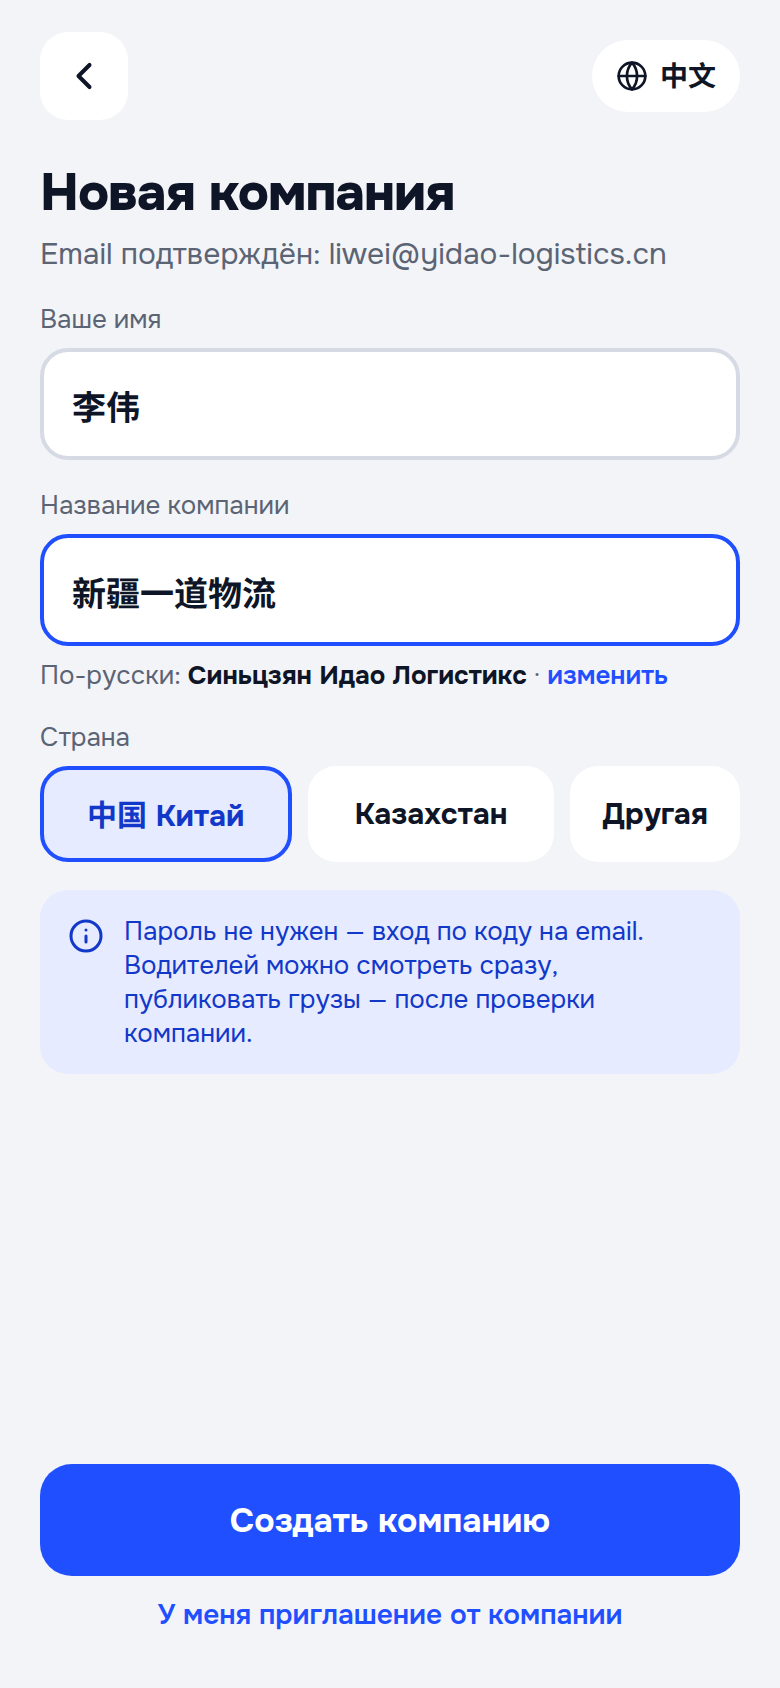
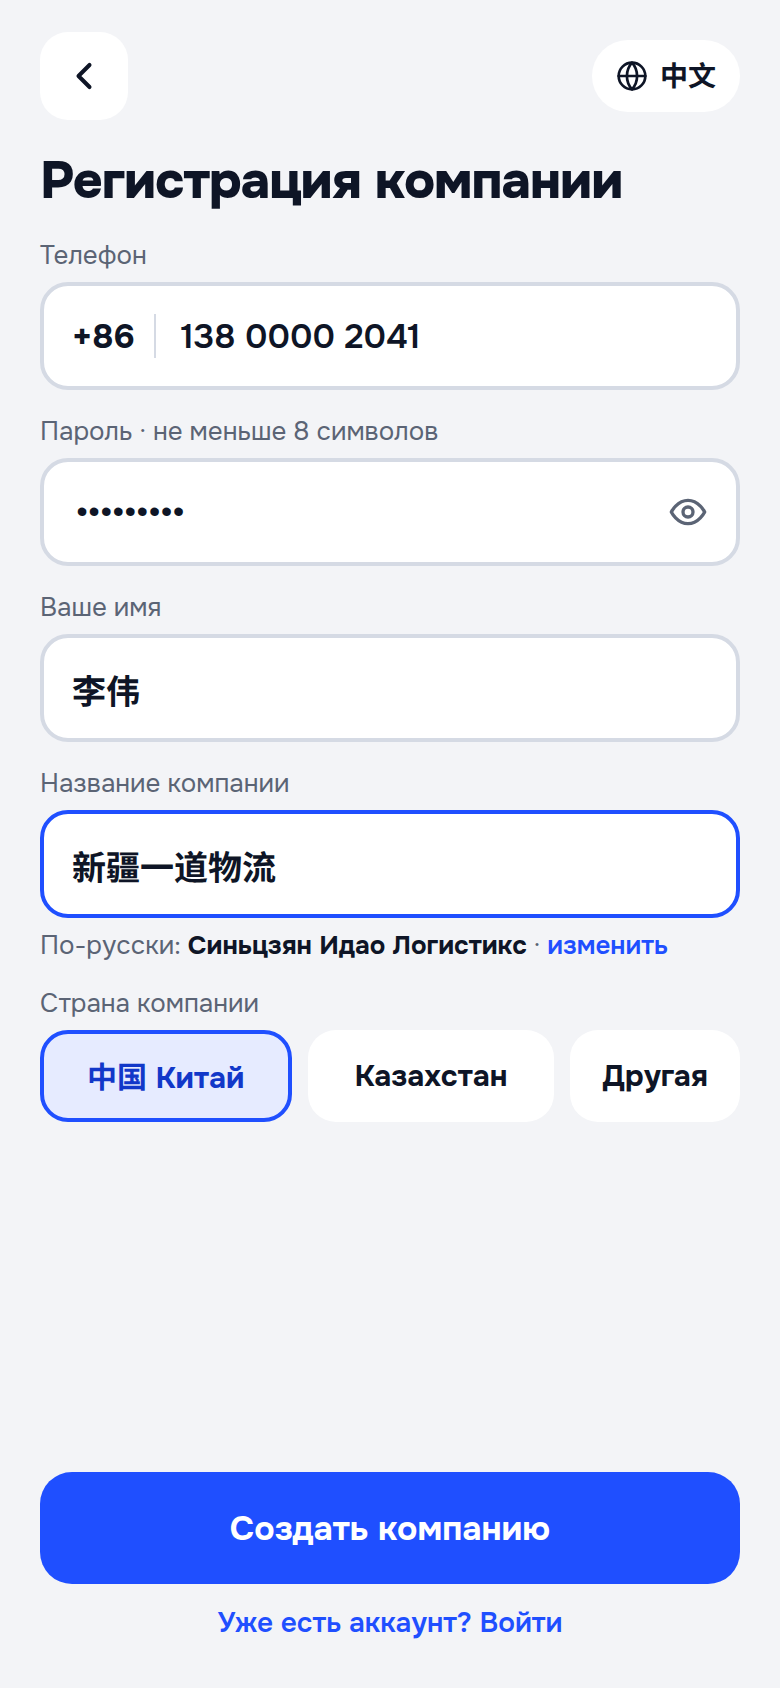
Logist auth: phone + password per owner decision; task 025, screens 12-13
Claude-Session: https://claude.ai/code/session_01Ff8oopsZvobH79mMVJKnFv

diff --git a/docs/tasks/025-logist-phone-password.md b/docs/tasks/025-logist-phone-password.md
@@ -1,0 +1,44 @@
+# 025 — Вход и регистрация логиста по телефону и паролю
+
+Статус: не начато · **решение владельца продукта 2026-10-04** (заменяет вход по коду на email из 006/022)
+
+Эталоны: `design/screens/13-auth-logist-login.png` (вход), `12-register-logist.png` (регистрация компании). Решение — `docs/decisions.md` (2026-10-04, «Логист: телефон + пароль»).
+
+## Что сделать
+
+### Вход (экран 13)
+1. Телефон с выбором кода страны (по умолчанию **+86**, рядом +7 и список) + пароль → «Войти». Кнопки «Зарегистрировать компанию», «У меня приглашение от компании», «Забыли пароль?».
+2. `POST /auth/company/login {phone, password}` → пара токенов (сессии из 006, срок 30 дней). Пароль — bcrypt.
+3. Защита: 5 неверных паролей на номер → блокировка входа на 15 минут; лимит 20 попыток в час с одного IP; одинаковый текст ошибки «Неверный телефон или пароль» (не раскрывать, существует ли номер).
+
+### Регистрация компании (экран 12) — один экран
+4. Поля: телефон, пароль (≥ 8 символов, показать/скрыть), имя, название компании (+ русское, подставляется — можно поправить), страна (Китай / Казахстан / Другая). Город не спрашиваем.
+5. `POST /auth/company/register` → создаёт `User{role: COMPANY, phone, passwordHash, name}` + `Company` + `CompanyMember{OWNER}` в одной транзакции (переиспользовать `registerOwnedCompany` из 022) → токены → кабинет с баннером «Публикация грузов откроется после проверки».
+6. Номер уже зарегистрирован → «Этот номер уже зарегистрирован. Войти?» (с переходом на вход, номер подставлен).
+7. **Подтверждение номера:**
+   - **+7 (Казахстан)** — SMS-код при регистрации (существующий `SmsService`, лимиты как у водителя);
+   - **другие страны (+86 и т. д.)** — SMS не отправляем (рассылка на китайские номера требует отдельной регистрации шаблонов и дорогая); номер подтверждает админ при проверке компании (звонок на официальный номер из реестра и на номер логиста — добавить пункт «номер логиста подтверждён» в чек-лист проверки, задача 012). Пока компания не проверена, публиковать грузы и так нельзя.
+   - Поле `User.phoneVerifiedAt`.
+
+### Восстановление пароля
+8. «Забыли пароль?»:
+   - номер **+7** — SMS-код → новый пароль;
+   - другой номер — если в профиле указан email (необязательное поле «Email для восстановления» в «Мой профиль») — код на email (`EmailService` из 006) → новый пароль; если email нет — экран «Напишите в поддержку» (WhatsApp / WeChat / email поддержки — контакты из `app_settings`), админ сбрасывает пароль вручную в админке (кнопка «Сбросить пароль» → временный пароль, обязательная смена при входе).
+   - После смены пароля — все остальные сессии завершаются.
+
+### Приглашение сотрудника (Путь Б из 022)
+9. Владелец в «Сотрудники» → «Пригласить» → вводит **телефон** и роль → получает **ссылку-приглашение**, которую сам отправляет коллеге в WeChat/WhatsApp (кнопки «Скопировать», «Поделиться»). Email-рассылка не нужна.
+10. По ссылке: телефон подставлен → пароль, имя, телефон для водителей (по умолчанию тот же), WeChat → готово, сразу в кабинете компании. Ссылка действует 7 дней, одноразовая.
+
+### Что убрать / оставить
+11. Экран входа логиста по коду на email (`company_login_screen` / `company_otp_screen`) — убрать из навигации. `EmailService` оставить — используется для восстановления пароля (п. 8).
+12. Демо-аккаунты компаний в `seed-demo.ts` и `DEMO_CREDENTIALS.md` — перевести на телефон + пароль.
+13. Миграция: у существующих COMPANY-пользователей без телефона — при следующем входе по старому email-коду (временно, до конца пилота) попросить указать телефон и пароль. Или проще для пилота: пересоздать демо-данные.
+14. Все строки — ARB (kk/ru/zh/en).
+
+## Готово, когда
+- Логист входит по телефону и паролю; 6-й неверный пароль → блокировка 15 минут.
+- Новая компания регистрируется на одном экране; казахстанский номер подтверждается SMS, китайский — без SMS.
+- «Забыли пароль» работает для +7 (SMS) и для номера с email (код на почту); без email — понятный экран поддержки и сброс пароля админом.
+- Сотрудник регистрируется по ссылке-приглашению и попадает в нужную компанию.
+- Тесты: вход, блокировка, регистрация, дубль номера, сброс пароля, приглашение.

diff --git a/docs/decisions.md b/docs/decisions.md
@@ -13,6 +13,15 @@
 **Не привязывать продукт к Хоргосу в текстах.**
 Скоро могут добавиться другие погранпереходы и точки. В интерфейсе, письмах и push не писать «Хоргос» текстом: название точки/города подставляется из справочника («Кто будет на {точка}», «Буду на {точка}»), общие тексты — без географии («Водители и грузы находят друг друга за минуты»). Хоргос остаётся только как данные в справочнике.
 
+**Логист: вход по телефону и паролю (решение владельца, заменяет вход по коду на email).** (задача 025, эталоны 12–13)
+- Вход: телефон (любой код страны, по умолчанию +86) + пароль. Регистрация компании — один экран: телефон, пароль, имя, название, страна.
+- Подтверждение номера: +7 — SMS-код; другие страны — без SMS (рассылка на +86 сложна и дорога), номер подтверждает админ при проверке компании.
+- Восстановление пароля: +7 — SMS; иначе — код на email, если указан в профиле; иначе — поддержка, сброс пароля админом.
+- Приглашение сотрудника — ссылкой, которую владелец сам пересылает в WeChat/WhatsApp (без email-рассылки).
+- Защита: блокировка на 15 минут после 5 неверных паролей, лимит по IP, одинаковая ошибка для неверного номера и пароля.
+Почему: логистам привычнее телефон и пароль, email у китайских логистов используют реже, а письма на qq.com/163.com доходят ненадёжно.
+Пункт «Логист — без пароля» в решении «Вход и регистрация — компактно» ниже — отменён.
+
 **Фильтр по умолчанию — Хоргос, но из настройки, а не из кода.**
 Все экраны, где выбирается точка (лента «Кто будет» у логиста, анонс водителя, публикация груза, лента грузов), по умолчанию открываются с городом-группой «Хоргос» (все его терминалы).
 - Значение по умолчанию задаёт админ в настройках (`app_settings.defaultPointCityId`), в коде «Хоргос» не упоминается.
@@ -24,7 +33,7 @@
 **Вход и регистрация — компактно, одна точка входа.** (задачи 021, 022; эталоны 09–12)
 - Нет отдельных «Вход» и «Регистрация»: человек выбирает роль, вводит телефон/email, получает код. Известный — сразу внутри, новый — продолжает регистрацию.
 - Водитель: телефон и код на одном экране (код подставляется сам, вход после 4-й цифры) → 3 шага: имя + город → машина → страны.
-- **Логист — без пароля:** вход по 6-значному коду на email (как водитель по SMS). Новый логист после кода — один экран «Новая компания»: имя, название (русское подставляется), страна кнопками. Пароль только у админа.
+- ~~**Логист — без пароля:** вход по 6-значному коду на email~~ — **отменено 2026-10-04**, см. «Логист: вход по телефону и паролю». Новый логист после кода — один экран «Новая компания»: имя, название (русское подставляется), страна кнопками. Пароль только у админа.
 - Язык — плашка в углу каждого экрана входа; ссылки на условия и политику — на первом экране.
 Почему: меньше экранов и полей — больше людей доходят до конца; без пароля нечего забывать и восстанавливать.
 

diff --git a/CLAUDE.md b/CLAUDE.md
@@ -30,7 +30,7 @@
 - Персональные данные хранятся на серверах в РК.
 - Логисты в Китае: на их стороне не зависеть от Google (FCM, Maps, Sign-In, google_fonts).
   Push: FCM (KZ) + APNs + JPush (Android CN). Компаниям — также WeCom group bot webhook.
-- Вход: водитель — телефон + SMS-код (+7); логист — email + код на почту (без пароля); админ — email + пароль. Одна точка входа: известный пользователь входит, новый — сразу регистрируется (эталоны 09–12).
+- Вход: водитель — телефон + SMS-код (+7), известный — входит, новый — сразу регистрируется (эталоны 09–11); **логист — телефон (любой код страны, по умолчанию +86) + пароль**, отдельная кнопка «Зарегистрировать компанию» (эталоны 12–13, задача 025); админ — email + пароль.
 - Модуль уведомлений — абстракция каналов: push, wecom, email, sms (позже wechat, whatsapp).
 - Шрифт Onest вшит в assets. Flutter Web: CanvasKit и шрифты (включая Noto Sans SC) — только со своего сервера, никаких запросов к gstatic/googleapis (задача 020).
 

diff --git a/docs/tasks/README.md b/docs/tasks/README.md
@@ -31,6 +31,7 @@
 | 017 | Чат до сделки, закрытие груза с исходом, «Договорились?» | не начато |
 | 018 | Фоновые задачи и курс валют НБ РК | не начато · нужен до 014, 015, 017 |
 | 019 | Публикация груза (терминал, допуски, повтор) и жалобы / блокировка | не начато · после 012 и 016 |
+| **025** | **Логист: вход и регистрация по телефону и паролю** | 🔴 решение владельца — сразу |
 | **024** | **Доработки авторизации после ревью 006** | 🔴 не начато — **1–2 часа** |
 | **021** | **Ввод имени и города на любом языке** | ✅ готово |
 | **022** | **Регистрация логиста и компании** | ⚠ частично: Путь А (создать компанию) готов; Путь Б, админ-создание и прод-почта ждут 012 |

diff --git a/design/DESIGN.md b/design/DESIGN.md
@@ -85,6 +85,7 @@ Onest поддерживает казахские буквы (ә ғ қ ң ө ұ 
 | 09-auth-start.png | Вход · выбор роли (единая точка входа и регистрации) |
 | 10-auth-driver.png | Вход водителя · телефон и код на одном экране |
 | 11-register-driver-about.png | Регистрация водителя · шаг 1 из 3: имя и город |
-| 12-register-logist.png | Регистрация логиста · компания на одном экране (после кода на email) |
+| 12-register-logist.png | Регистрация компании · телефон, пароль, имя, компания, страна (один экран) |
+| 13-auth-logist-login.png | Вход компании · телефон и пароль |
 
 Данные на макетах (имена, компании, цены) — примеры.
